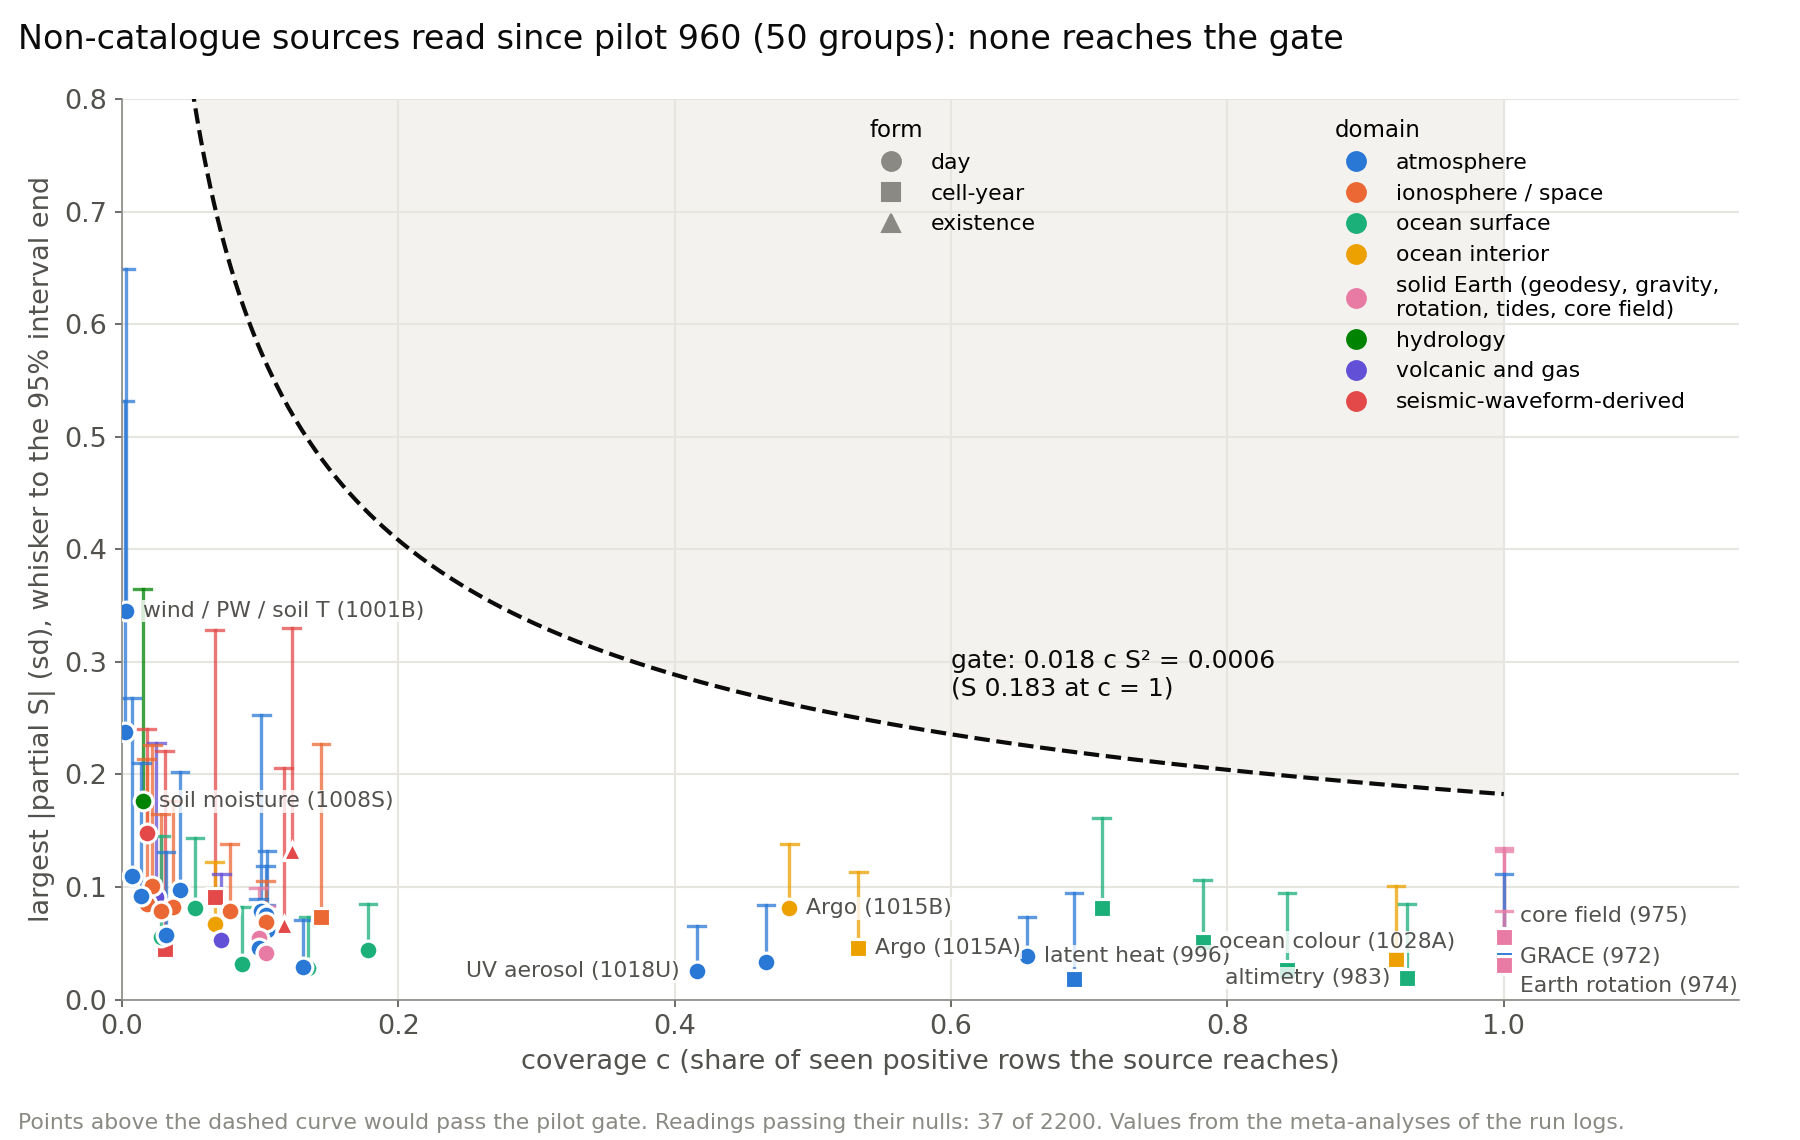
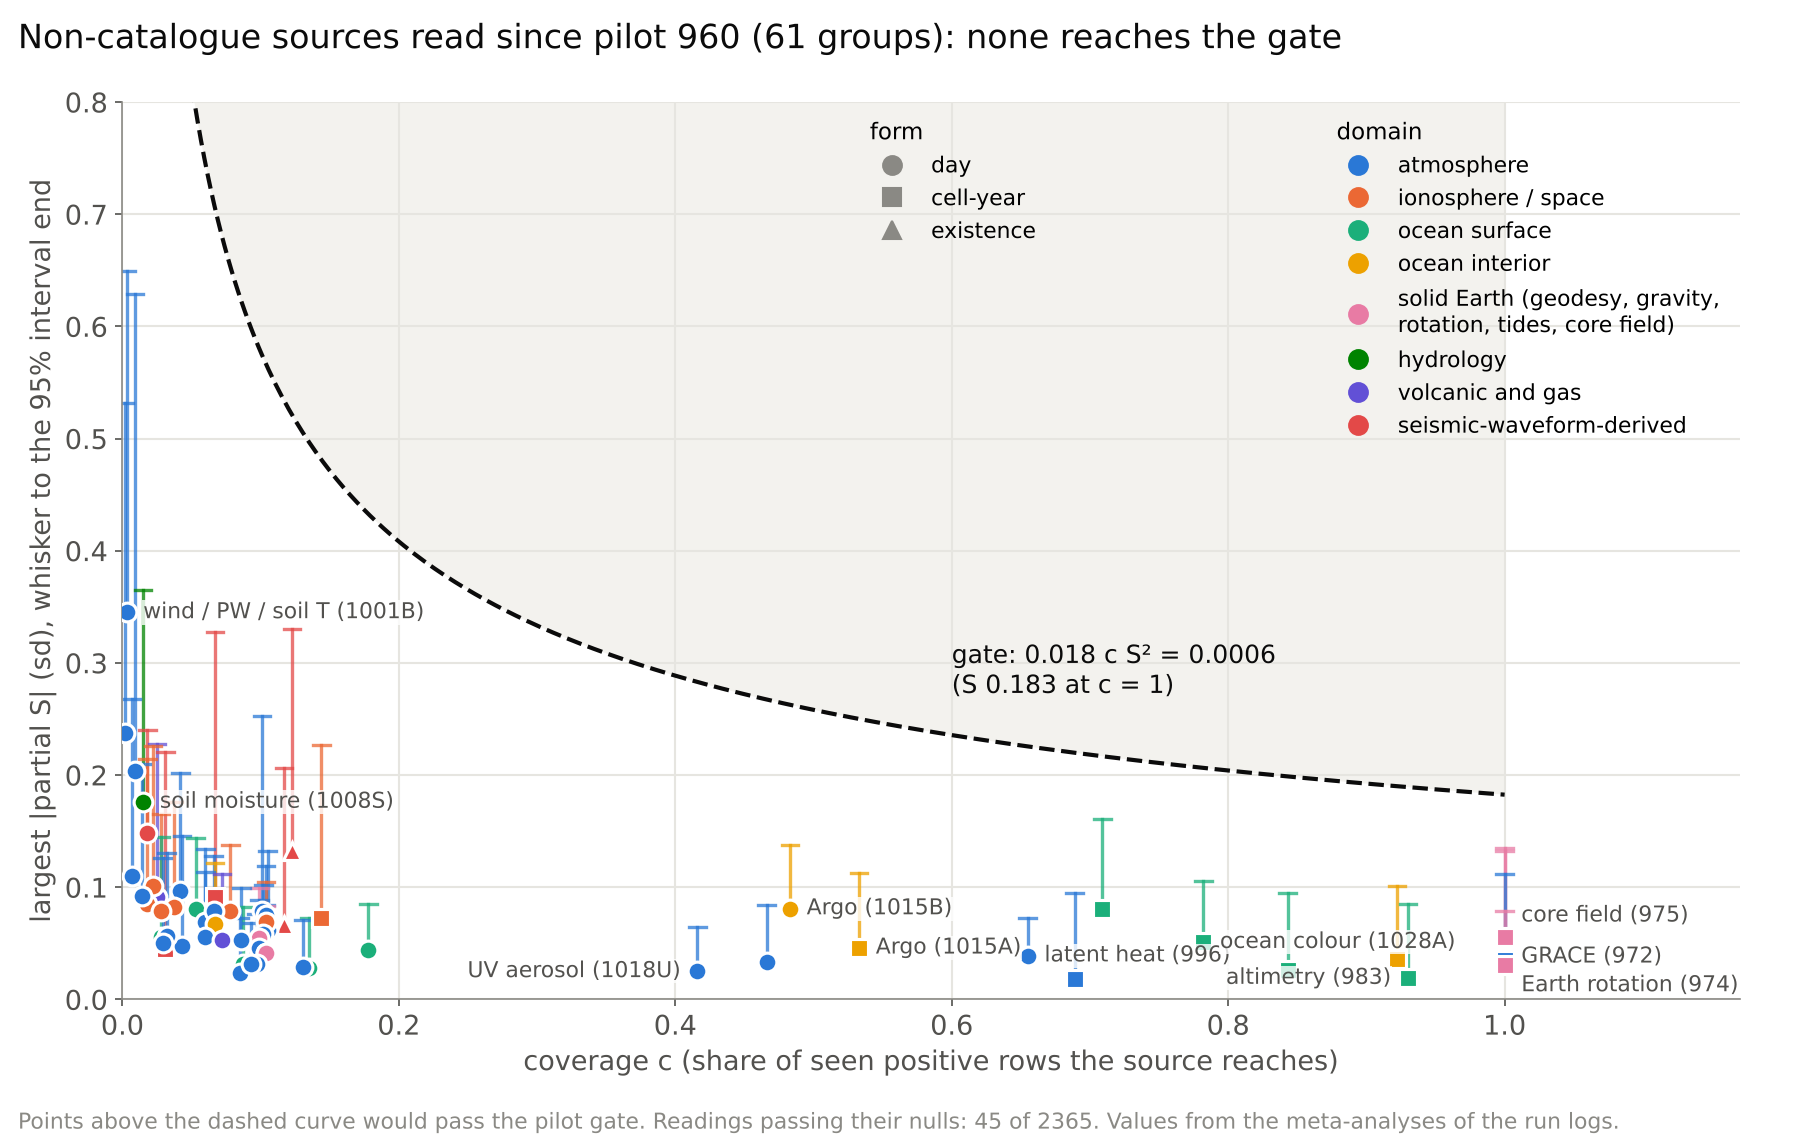
Update 197 (rounds 1069-1097); honest axis 0.778 unchanged; 11 pilot rows, figure 2 redrawn
Claude-Session: https://claude.ai/code/session_01Qxf5chyvwNeB8zBdWUwujx

diff --git a/RESEARCH-LOG.md b/RESEARCH-LOG.md
@@ -17,6 +17,7 @@ Every research narrative entry from the README, moved here unchanged on 2026-08-
 | # | date | what it says |
 |---|---|---|
 | [196](#update-196-2026-11-22) | 2026-11-22 | rounds 1043-1068: a campaign toward 0.80 with look-ahead room checks before any arm (0 of 8 slots used), the feature space on and beyond the base read for room, eight more non-catalogue sources; nothing moved the number (honest axis 0.778, main axis 0.787474) |
+| [197](#update-197-2026-11-23) | 2026-11-23 | rounds 1069-1097: the honest axis decomposed and read through (seven designs), image-only and audio-only sources searched and the first pictures digitised, searched redos of readings whose model settings had been guessed, gate redesigns of earlier no-verdict readings; nothing moved the number (honest axis 0.778, main axis 0.787474) |
 | [195](#update-195-2026-11-18) | 2026-11-18 | rounds 992-1042: new catalogue parameter groups and more than twenty non-catalogue sources read, none admitted; the missing order lies mostly in quiet-looking cells and between strata; three more arms frozen for 2027 |
 | [194](#update-194-2026-11-17) | 2026-11-17 | where the working series stands (0.787474, unchanged since round 909) and what is read next: frozen arms rebuilt on window 36, 2027 fits after 2026-12-15 |
 | [193](#update-193-2026-11-17) | 2026-11-17 | events below the catalogue floor: the one family with a reading beyond its nulls is not supported as a route at this size; an offshore reading after the seafloor networks is frozen for re-reading |
@@ -1018,3 +1019,7 @@ Every research narrative entry from the README, moved here unchanged on 2026-08-
 ## update 196 (2026-11-22)
 
 **2026-11-22 update 196 (rounds 1043 to 1068: a campaign toward 0.80 with room checks before any arm, the feature space on and beyond the base read for look-ahead room, and eight more non-catalogue sources; nothing moved the number and 0 of 8 campaign slots were used).** The headline number has not moved: 0.778 on the honest axis (0.777844; dropped rows counted as negatives) and 0.787474 on the main sudden axis, on which verdicts are read, over the 25 seen windows. None of the readings since update 195 moved either number. As an intermediate step toward 0.90, a campaign toward 0.80 was opened under a frame written before any arm: at most eight large method or model arms, each run only after a declared look-ahead diagnostic shows at least +0.003 of room, admitted only at a seen gain of at least +0.002 with t at least 3, Holm-adjusted over the eight slots, and an early gain above 0, and confirmed only on the prospective windows. Room checks on the catalogue base: re-weighting the cell-year model's columns gives +0.00049 even with a look-ahead fit (1043), a joint day-level fit -0.0004 (1045) and a flexible Hawkes score +0.000091 (1047). The one large room is look-ahead: knowing each region's number of firing cells in the scored window would add +0.0076 at 8 regions and +0.0354 at 30 (1044), and the room is that count itself (perfect same-window moderate activity adds about +0.0002). The regional counts are not predictable from the past (dispersion inside the null; causal correlation -0.008 / -0.009 against 0.27 needed at 30 regions; 1046), and climate and global year factors (ONI, PDO, IOD, AMO, SOI, QBO, global mean sea level, length of day) do not predict them either: the combined correlation is -0.029 at 30 regions, with no verdict because the 23-feature design could not reach the rule on 21 windows, and the single indices are a readable null (1063). Demoting active-looking cells that do not fire is worth +0.0053 at the 1% level even with look-ahead, and five causal exhaustion proxies lose (-0.0016 to -0.0033; 1051): recent large release, aftershock-dominated activity and a falling rate mark cells that are more, not less, likely to host the next isolated M6. A calibration over all recorded pairs (1052) converts a within-bin reading inside the quiet stratum into about 0.0078 on the main axis per unit at full coverage, so +0.003 would need a within-bin effect of 0.39 against at most 0.071 recorded. Then the feature space was read for look-ahead room against permuted and noise versions of the same columns (rule: at least +0.003 above both nulls with the interval excluding 0; planted effects of +0.0075 to +0.0275 were read back in every design): transforms, products and ratios of the base's 75 columns (8,716 features; +0.000291 above the permuted null; 1059), boosted trees from the base logit (+0.001823; 1060), the non-catalogue fields used jointly and with the cell state (17 fields 2001-2025: -0.001336; 33 fields 2011-2017: +0.000540; 1058), 40 compounds of quantities outside the base, among them region-relative ranks, coupling ratios scaled by the geodetic strain-rate model (GSRM v2.1, CC BY-NC-SA 3.0), the tidal state times a cell's own tidal sensitivity, and burstiness (+0.001982 for trees; 1061), 35 spatial-pattern compounds (ring-against-centre doughnut activity, along-strike and up-dip asymmetry, directed neighbour lead-lag and transfer entropy, fill-in state; +0.001000 for trees; 1066), a learned spatial model over the cell graph with the base logit as offset (+0.000174 above the permuted null and +0.000961 above noise, 0 over the base, because the hold-out block chose the untrained model in every fold; 1067; on the early arena the planted effect was not recovered, so that reading has no power), and three-way products and time-scale ratios of the gridded fields (+0.000023 / +0.000284; 1068): no room at this size in any of them. On the non-catalogue side each source was a declared pilot through the instrument of update 192: full single-station dv/v from 494 stations (coverage 0.16-0.17; 4 of 57 blocks pass their nulls, with small and mostly negative effects, the largest -0.148 sd; 1048), ocean-bottom pressure (ECCO V4r4), sea-surface salinity (OISSS) and column CO2 (OCO-2) (|S| <= 0.097; 1049), total cloud fraction (ISCCP-H, NOAA NCEI; |S| <= 0.033; 1055), ionospheric F2-peak density and height from radio occultation (COSMIC-1, UCAR CDAAC; |S| <= 0.079; 1056), column methane (Sentinel-5P TROPOMI; coverage 0.018-0.034; 1057) and ocean surface currents and eddy energy (geostrophic currents from Aviso and NOAA CoastWatch; |S| <= 0.081; 1064): all fail at this size, and the neutral atmosphere from radio occultation (coverage 0.1968) and Swarm thermospheric density (coverage bound 0.2942) stopped at coverage before any effect was read (1065). A novelty sweep (1054) found no further free family credible for +0.0125. A meta-analysis (meta1062) counts 35 of 2,174 non-catalogue readings since pilot 960 passing their nulls against about 109 by chance, puts their summed optimistic gain at 5.1% of the 0.1125 gap, and finds that every room of the size 0.80 needs is knowledge of the scored period's own labels (which cells fire, how many per region, when inside a firing cell-year, the era's own fit), while no causal reading of any of these kinds has reached +0.001 on the seen windows. One input changed at its source: the ISC bulletin now loads 1,080,347 events against 1,078,728 at the October fetch; on the current files the day-level model reproduces at 0.777843 on the honest axis and 0.787472 on the main axis, and a dated addendum, written before any 2027 label is read, fixes how the ISC-dependent frozen arms are fitted: through copies that differ from the frozen scripts in the input-hash line only, on a fresh fetch whose hash is committed before the fit, with the window-36 difference reported. Next: the December coverage-first audit of newly opened seafloor-network data for the quiet firing cells without small-event information, and a further planning step before any new family; after 2026-12-15 every frozen arm is fitted for window 37 (2027), with commit hashes before 2027-02-01, and on or after 2027-03-01 the rest of 2026 is scored. The goal of a genuine 0.90 is held open.
+
+## update 197 (2026-11-23)
+
+**2026-11-23 update 197 (rounds 1069 to 1097: the gap between the honest and the main axis decomposed and read through, image-only and audio-only sources searched and digitised, searched redos of readings whose model settings had been guessed, and gate redesigns of earlier readings without a verdict; nothing moved the number).** The headline number has not moved: 0.778 on the honest axis (0.777844; dropped rows counted as negatives) and 0.787474 on the main sudden axis, on which verdicts are read, over the 25 seen windows; the distances from the honest number are 0.022 to 0.80, 0.072 to 0.85 and 0.122 to 0.90. The 0.90-0.92 AUCs of older updates remain pooled figures carried by aftershock positives, as the note of 2026-11-19 says. **The honest axis, decomposed.** A meta-analysis (meta1076) splits the 0.122 to 0.90 into about 0.0096 that the dropped rows cost and 0.1125 of order between positive and quiet rows on the main axis. Diagnostic 1069 (on the cell-year-logit day model, honest 0.777137 seen / 0.731805 early) finds the dropped rows to be 0.0367 of the honest negatives, ranked against the positives at AUC 0.529; days before an isolated M 5.0-5.9 are 0.559 of them (AUC 0.612), and days inside the Gardner-Knopoff window of an earlier parent before a later non-isolated event are 0.42 of them (AUC 0.414 under parents below M 6), that is, the model ranks them above the positives. Placing that class below all rows would add +0.0090 on the honest axis with look-ahead, the M 5.0-5.9 class +0.0079 and all dropped rows +0.0173, and nearly all of it lies between cells (against the same cell's quiet rows +0.0002). Over 71 recorded day-level rounds the honest and main gains correlate at r 0.998, so no round lost on the main axis would have been kept on the honest axis. Six causal designs then tried to reach that room, each declared before its label read with a planted effect read back: a demotion rule for rows inside open Gardner-Knopoff windows (1071; the same state holds 0.119 of the positives as well as 0.49 of those rows; honest -0.000454 seen), a magnitude-exceedance factor (1083; look-ahead room of the causal form +0.000904 against +0.003 needed; rows under M 6-7 parents are enriched in positives), a factor from the expected 34-day number of M >= 5 by Omori decay of open parents (1084; room +0.000032), a size head from the cell's own ratio of isolated M >= 6 to M >= 5 events and an honest-label refit of the day-level stack with a searched class weight (1085; -0.000200 and -0.000258 seen), and a boosted-tree honest-label correction (1086, no verdict: its planted gate failed). At equal base score the open-parent states do separate positives from those dropped rows (within-bin AUC - 0.5 of -0.26 and -0.27 on both arenas; 1086), but against all honest negatives the largest within-bin effect is -0.0185 against a detection floor of 0.024 (1087), because these rows are about 1.5% of the honest negatives and quiet rows in the same state sit below the positives too. The best of the six realises 0.135 of the room (meta1088): the 0.0096 between the axes is not reachable with day-level catalogue states at this size, and what separates those rows from positives is the size of the event that follows. One prospective single test was frozen from this line (1090): the within-bin order of the expected count times the size ratio against all honest negatives on windows 37-44, sign and threshold (+0.024) fixed in advance, one reading on or after 2035-03-01 (seen -0.0057, early +0.0369). **Image-only and audio-only sources.** Sources published only as pictures or sound are now in scope: they are digitised and validated against numbers or a label-free check before any label read. A first audit (1070) found no picture-only or sound-only family reaching coverage 0.3 (VLF amplitude plots 0.105). A second, deeper search (1072, 1073) found the IMS hydrophone triplets (HA11, HA08S, HA10, HA01) open at EarthScope for 2015-2026, with T phases of M 4.6-5.4 events seen at 2,000-2,600 km and a basin-reach bound of coverage 0.454, 150 of the 315 ocean-only quiet firing cell-windows; 676 daily colour-mapped NASA GIBS layers that invert exactly to values; Indonesian station bulletins with hypocentre tables down to M 1.0 for 2019 and 2023-2026 only (prospective value); and the JMA Tokai borehole strain as vector figures in the monthly Nankai evaluation documents. The strain was digitised from 147 documents for 27 stations (1077): the gate on overlap between consecutive issues failed (hourly pass share 0.884 against 0.90), so it has no verdict; on the masked series nothing was found (M >= 3.0, 49 targets, S +0.25 [-0.08, +0.64]), the positive part sitting in the targets inside documented slow-slip episodes. The GIBS pictures (1075; 44,405 pictures, 0 off-palette pixels) of night brightness temperature (MODIS Terra and Aqua), tropospheric NO2 (OMI), night cloud-top temperature and aerosol optical depth first had no verdict because the method twin failed on 2018 (daily-anomaly r 0.826 against 0.85); the cause was a product-version mismatch, and a same-version twin (MUR v4.1 picture against MUR v4.1 numbers) passes at 0.996 (1092), so the five layers fail at this size (largest |partial S| 0.056, aerosol depth 0.204 at n 194 with the interval including 0). Five more GIBS layers (1095; 45,381 pictures: AMSU-A channels 5 and 9, ocean cloud liquid water, cloud effective radius and optical thickness) fail at this size or, for the two AMSU channels, have no verdict on the gate as frozen (an index error in the gate was fixed only after their effect sizes were printed; they fail on the corrected gate); largest |partial S| 0.079 against a gate of about 0.185-0.235. WGLC daily lightning (WWLLN, CC BY 4.0) fails at coverage 0.62 with |S| <= 0.048. Sizing found WWSSN film scans (complete for 5 stations only) and HARP hydrophone audio (coverage 0.0168) below coverage, and GridSat-B1 geostationary infrared 1980- at coverage 0.9956 seen and 0.7978 on the early arena (1089, 1096). Declared, running: pilot 1074 (IMS hydrophone T-phase small-event rate, day level, coverage 0.1785 of positive rows 2015-2025) and existence test 1097 (OMTI airglow all-sky pictures around isolated M >= 6 mainshocks). **Searched redos.** A records audit (1078) listed readings whose model settings had been guessed; each redo used a declared Optuna search whose objective sees only training windows (k <= j - 2), the same budget for nulls and a planted version, and counts as one reading: the cell-year model's long-memory tree column (1082; 630 trials; +0.000024 seen, -0.000920 early), trees on the day-level logit (1081 T; +0.000359 seen, -0.011864 early), raw-catalogue learners (1080; day level -0.000031, cell year no verdict because its permuted-label null read 0.5533), the open daily fields jointly (1079; no verdict, planted +0.0014 against +0.003) and a graph network on the logit (1081 G and its prequential rerun 1081b; no verdict, the planted gate failed; REAL - BASE -0.0036 seen). Searched settings moved 0 of 6 readings to a gain (meta1088): the guessed settings were not what kept these readings small. **Gate redesigns.** Four earlier readings without a verdict were redone with redesigned gates, each declared first: the combined climate-index model of the regional firing counts with 9 features (1063c; the planted gate passes; r -0.035 at 30 regions against 0.27 needed: no arm), the quiet-stratum reading of the GIBS layers and lightning with a noise gate from 100 repeats (1091), the quiet-stratum reading of ocean-bottom pressure, salinity and column CO2 with per-variable planted gates (1093), and the below-floor ISC M 1-2.99 state inside the quiet stratum with finer bins (1094; +0.0702, z 2.84, Holm 0.187; its prospective test stands): all gates pass, and none is found at this size. A meta-analysis (meta1076, meta1088) counts 38 of 2,300 non-catalogue readings since pilot 960 passing their nulls against 115 by chance, 0 at the pilot gate. Next: pilot 1074 read once its fetch is done, existence test 1097 read once its fetch is done, a declared GridSat-B1 monthly pilot with the early arena, a planted-gate diagnostic before any further graph reading, the December coverage-first audit of newly opened seafloor-network data; after 2026-12-15 every frozen arm is fitted for window 37 (2027), with commit hashes before 2027-02-01, and on or after 2027-03-01 the rest of 2026 is scored. The goal of a genuine 0.90 is held open.

diff --git a/docs/update-digest.md b/docs/update-digest.md
@@ -1187,3 +1187,12 @@ eight more non-catalogue sources (full dv/v, ocean-bottom pressure, salinity, CO
 occultation, methane, ocean currents) fail at this size, 35 of 2,174 readings since pilot 960 pass their
 nulls against about 109 by chance, and the ISC-dependent arms are fitted in 2027 through hash-line copies
 (update 196).
+
+The headline stays at 0.778 on the honest axis (0.777844; main axis 0.787474, on which verdicts are read;
+0.122 from 0.90). The 0.0096 between the axes was decomposed (dropped rows are 0.0367 of the honest negatives;
+those inside open Gardner-Knopoff windows are ranked above the positives) and read with six causal designs, the
+best realising 0.135 of the room; one prospective test was frozen. Sources published only as pictures or sound
+are now digitised and validated: GIBS satellite pictures (ten layers), JMA borehole-strain figures and WGLC
+lightning fail at this size or have no verdict; IMS hydrophones and airglow pictures are declared and running.
+Searched redos of guessed model settings moved 0 of 6 readings to a gain, and four gate redesigns pass their
+gates and find nothing at this size (update 197).
